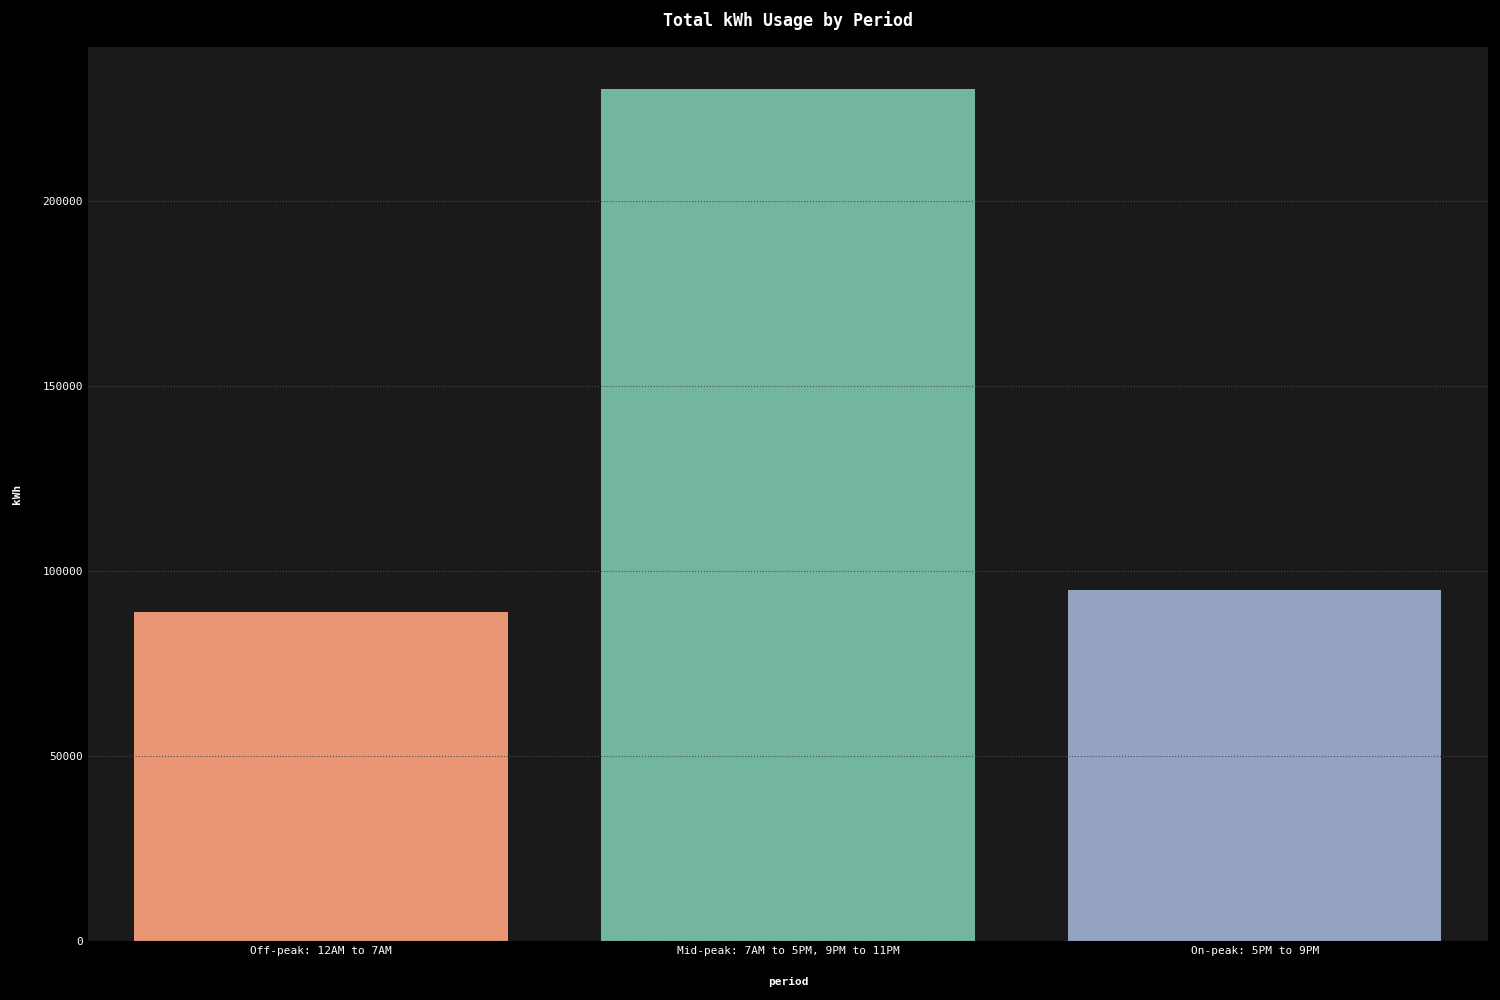
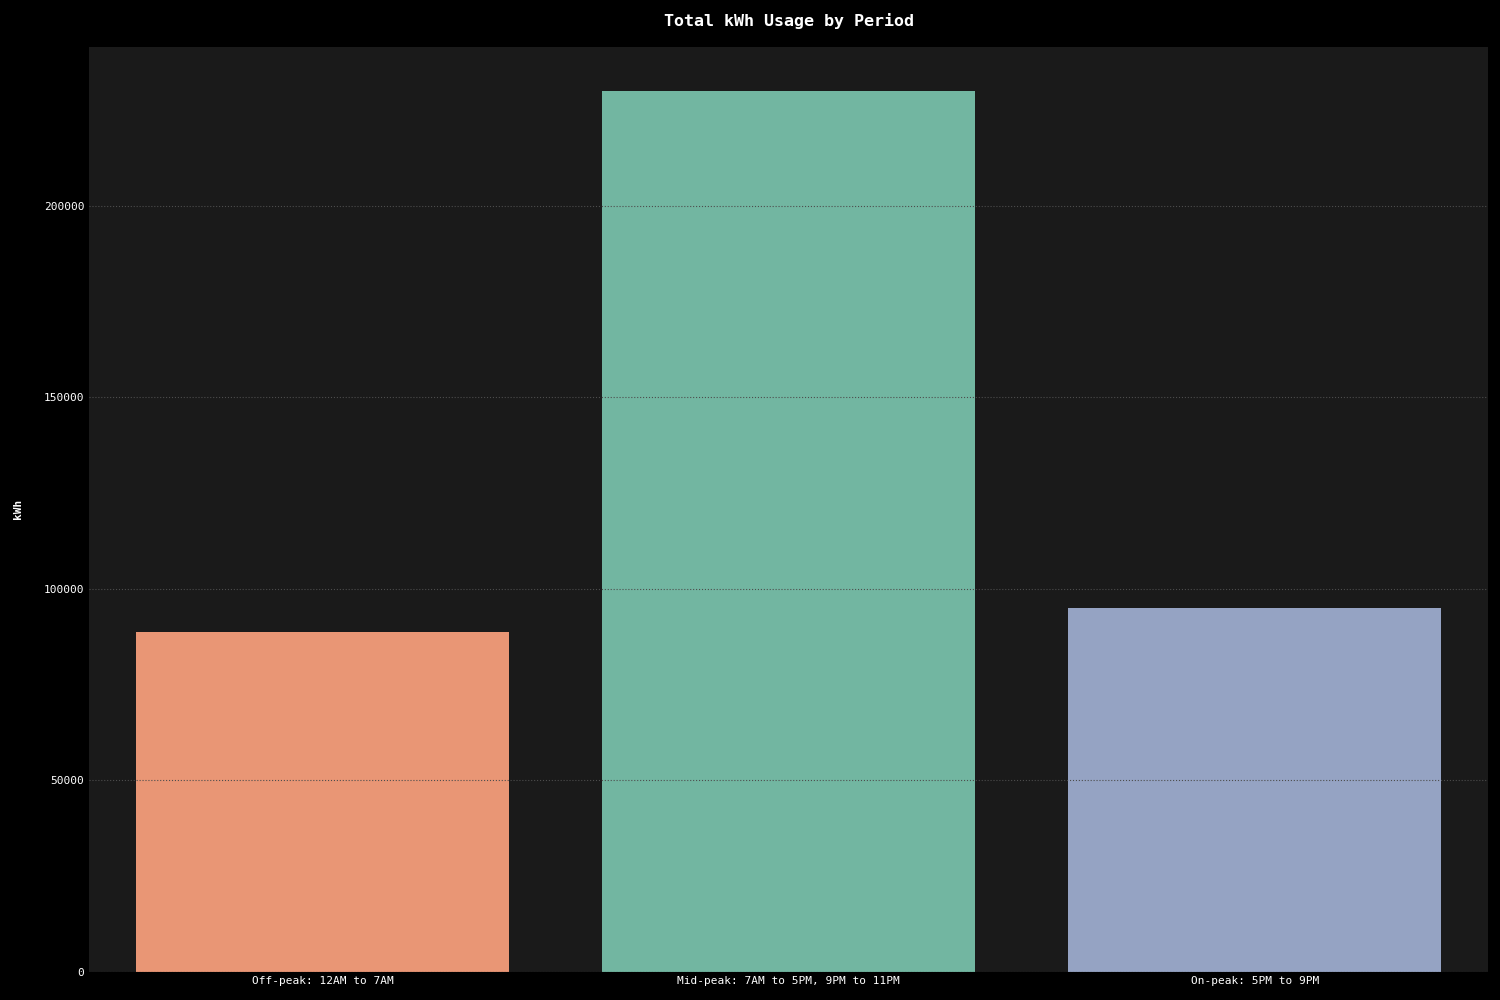
All `eda2` plots done and added to Make

diff --git a/src/eda/eda_features.py b/src/eda/eda_features.py
@@ -22,6 +22,10 @@ def feature_engineering(df : pd.DataFrame) -> pd.DataFrame:
 
         4. Period Classification:
             - A new string column 'period' classifies the time of the day into three categories: Off-peak, Mid-peak, and On-peak.
+
+        5. Location Mapping:
+            - A new string column 'location' maps 'account_number' to a physical location.
+            - This will be used for spatial analysis and plotting.
     
     Parameters:
         df (pd.DataFrame): The original DataFrame containing meter usage data.
@@ -52,6 +56,15 @@ def feature_engineering(df : pd.DataFrame) -> pd.DataFrame:
             'Off-peak: 12AM to 7AM' if 0 <= hour < 7 else (
             'Mid-peak: 7AM to 5PM, 9PM to 11PM' if (7 <= hour < 17) or (21 <= hour < 23) else 
             'On-peak: 5PM to 9PM'))
+    
+    # Map each account_number to a location name
+    df['location'] = df['account_number'].map({'35012787756' : "Industrial Way",
+                                               '30010320361' : "Fox Street",
+                                               '30010894035' : "Fox Street",
+                                               '30010601281' : "Fox Street",
+                                               '35012787137' : "Industrial Way",
+                                               '30010320353' : "Fox Street",
+                                               '35012790198' : "Industrial Way"})
     
     return df
 

diff --git a/src/eda/eda_2_avg_kwh_by_period.py b/src/eda/eda_2_avg_kwh_by_period.py
@@ -1,0 +1,37 @@
+from eda_features import meter_usage_engineered as mue
+from utils import set_plot_params
+
+import pandas as pd
+import matplotlib.pyplot as plt
+import seaborn as sns
+
+colors = set_plot_params()
+
+# Calculate total kWh usage for each period
+period_kwh = mue.groupby('period')['kwh'].sum()
+
+# Define the number of hours in each period
+hours_in_period = {'Off-peak: 12AM to 7AM'             : 7,
+                   'Mid-peak: 7AM to 5PM, 9PM to 11PM' : 13,  
+                   'On-peak: 5PM to 9PM'               : 4}
+
+# Calculate the average hourly usage for each period
+average_hourly_usage = period_kwh / pd.Series(hours_in_period)
+
+# Define the order in which the periods should appear
+period_order = ['Off-peak: 12AM to 7AM', 'Mid-peak: 7AM to 5PM, 9PM to 11PM', 'On-peak: 5PM to 9PM']
+
+# Create the plot
+sns.barplot(data    = pd.DataFrame({'period'      : average_hourly_usage.index,
+                                    'average_kwh' : average_hourly_usage.values}),
+            x       = 'period',
+            y       = 'average_kwh',
+            hue     = 'period',
+            order   = period_order)
+
+plt.title('Average kWh Usage per Hour by Period')
+plt.ylabel('Average kWh per Hour')
+plt.xlabel(None)
+plt.tight_layout()
+plt.savefig("fig/eda/avg_kwh_by_period.png")
+plt.show()

diff --git a/src/eda/eda_2_kwh_over_time_by_meter.py b/src/eda/eda_2_kwh_over_time_by_meter.py
@@ -1,0 +1,31 @@
+from eda_features import meter_usage_engineered as mue
+from utils import set_plot_params
+
+import matplotlib.pyplot as plt
+import numpy as np
+
+colors = set_plot_params()
+
+# Map each meter_id to a unique color
+unique_meters = mue['meter_id'].unique()
+color_map = dict(zip(unique_meters, reversed(colors)))
+
+# Scatter plot for each meter_id
+for meter, color in color_map.items():
+    subset = mue[mue['meter_id'] == meter]
+    plt.scatter(subset['interval_end_datetime'], 
+                subset['kwh'], 
+                color = color, 
+                label = meter, 
+                alpha = 0.5, 
+                s     = 10)
+
+# Plot settings
+plt.title('Scatter Plot of kWh Usage Over Time Colored by Meter ID')
+plt.ylabel('kWh')
+plt.xlabel('Datetime')
+plt.legend(title = 'Meter ID')
+
+plt.tight_layout()
+plt.savefig("fig/eda/kwh_over_time_by_meter.png")
+plt.show()

diff --git a/src/eda/eda_2_kwh_by_location.py b/src/eda/eda_2_kwh_by_location.py
@@ -1,0 +1,27 @@
+from eda_features import meter_usage_engineered as mue
+from utils import set_plot_params
+
+import matplotlib.pyplot as plt
+
+colors = set_plot_params()
+
+# Define colors for each unique location
+location_colors = {'Industrial Way': colors[0], 'Fox Street': colors[1]}
+
+for location, color in location_colors.items():
+    subset = mue[mue['location'] == location]
+    plt.scatter(subset['interval_end_datetime'], 
+                subset['kwh'], 
+                color = color, 
+                label = location, 
+                alpha = 0.3, 
+                s     = 10)
+
+plt.title('Scatter Plot of kWh Usage Over Time Colored by Location')
+plt.ylabel('kWh')
+plt.xlabel('Datetime')
+plt.legend(title = 'Location')
+
+plt.tight_layout()
+plt.savefig("fig/eda/kwh_by_location.png")
+plt.show()

diff --git a/src/eda/eda_2_kwh_by_period.py b/src/eda/eda_2_kwh_by_period.py
@@ -21,6 +21,7 @@ sns.barplot(data  = period_kwh,
 
 plt.title('Total kWh Usage by Period')
 plt.ylabel('kWh')
+plt.xlabel(None)
 plt.tight_layout()
 plt.savefig("fig/eda/kwh_by_period.png")
 plt.show()

diff --git a/eda.md b/eda.md
@@ -9,15 +9,18 @@
   - [Setting Up the Environment](#setting-up-the-environment)
 - [General Information](#general-information)
 - [Feature Engineering](#feature-engineering)
-  - [Fields Added or Altered](#fields-added-or-altered)
+- [High-Level Meter Analyses](#high-level-meter-analyses)
   - [Distribution of kWh by Meter ID \& Year](#distribution-of-kwh-by-meter-id--year)
+  - [kWh Usage Over Time by Meter ID](#kwh-usage-over-time-by-meter-id)
+  - [kWh Usage at Each Location](#kwh-usage-at-each-location)
   - [Key Takeaways](#key-takeaways)
 - [Usage by Period](#usage-by-period)
+  - [Key Takeaways](#key-takeaways-1)
 - [Mean and Max Usage Analysis](#mean-and-max-usage-analysis)
   - [Plot Aggregations](#plot-aggregations)
-  - [Key Takeaways](#key-takeaways-1)
-- [Energy Spikes](#energy-spikes)
   - [Key Takeaways](#key-takeaways-2)
+- [Energy Spikes](#energy-spikes)
+  - [Key Takeaways](#key-takeaways-3)
 
 ## Introduction
 
@@ -39,6 +42,7 @@ Charts can then be created and reviewed using one of the following commands:
 
 ```bash
 make eda1
+make eda2
 ```
 
 Note that each plot is then saved as a PNG file in the `.fig` directory after being closed by the user. 
@@ -81,8 +85,6 @@ Using `.head()` on `meter_usage` yields the following results:
 
 This section discusses the reformatting of existing columns and the generation of new ones to enable more in-depth analysis. 
 
-### Fields Added or Altered
-
   - `interval_date_time` (**datetime**): Converted to datetime datatype to facilitate time-based analysis. Enables granular, time-based comparisons and trend observations.
   
   - `year` (**int**): Year extracted from `interval_date_time` and added as a separate column. Useful for annual comparative analysis and identifying yearly trends.
@@ -94,35 +96,59 @@ This section discusses the reformatting of existing columns and the generation o
   - `hour` (**int**): Hour extracted from `interval_date_time`. Useful for hourly trend analysis and period classification.
 
   - `period` (**str**): Classifies the time of the day into three categories: 'Off-peak: 12AM to 7AM', 'Mid-peak: 7AM to 5PM, 9PM to 11PM', and 'On-peak: 5PM to 9PM'. This classification aids in understanding the energy usage patterns based on different time periods.
+
+  - `location` (**str**): Maps the `account_number` to a physical location name. This new column aids in spatial analysis and allows for color-coding plots by location for better interpretability.
   
   - `kwh_normalized` (**float**): Normalized energy usage, calculated as $\frac{{\text{kWh} - \mu}}{{\sigma}}$ where $\mu$ is the mean and $\sigma$ is the standard deviation, both computed grouped by `meter_id`. This normalization levels the playing field for analysis, allowing for a fair comparison across different meters and times.
   
   - `extreme_outlier` (**bool**): Boolean flag indicating if `kwh_normalized` is greater than 3 or less than -3. Serves as an immediate and accessible flag for unusual or extreme energy usage patterns.
 
+## High-Level Meter Analyses
+
+This section examines the energy consumption patterns over time, focusing on the different meter IDs. It incorporates two types of visualizations: boxplots that aggregate data by years and scatter plots that offer granular looks at the kWh usage over the entire observed timeframe.
+
 ### Distribution of kWh by Meter ID & Year
 
-This section presents a series of boxplots, each representing the distribution of normalized kilowatt-hour (kWh) usage by meter ID for different years. The plot aims to provide insights into the variability, central tendency, and outliers in the energy consumption recorded by each meter ID annually.
+This plot presents a series of boxplots, each representing the distribution of normalized kilowatt-hour (kWh) usage by meter ID for different years. It aims to provide insights into the variability, central tendency, and outliers in the energy consumption recorded by each meter ID annually.
 
 ![Distribution of kWh by Meter ID & Year](fig/eda/distribution_of_kwh.png)
 
+### kWh Usage Over Time by Meter ID
+
+Rather than group by year, this scatter plot illustrates the kilowatt-hour (kWh) usage over time, with each meter ID represented by a unique color. The plot aims to highlight trends, outliers, and patterns in energy consumption for each meter ID throughout the observed time frame.
+
+![kWh Usage Over Time Colored by Meter ID](fig/eda/kwh_over_time_by_meter.png)
+
+### kWh Usage at Each Location
+
+After analyzing the kWh usage over time by Meter ID, the next logical step is to examine how this usage is distributed across the brewery's 2 locations. This new dimension offers insights into whether specific locations are more energy-efficient or if they encounter different challenges in terms of energy management.
+
+![kWh Usage at Each Location](fig/eda/kwh_by_location.png)
+
 ### Key Takeaways
 
-1. **Ubiquitous Energy Spikes Across Locations**: The energy consumption spikes are not isolated incidents but occur across all meters and both brewery locations. This uniformity suggests that if there are opportunities for using energy more efficiently, those strategies would likely be applicable company-wide, including potentially rescheduling equipment to operate during off-peak hours.
+1. **Location-Specific Energy Spikes**: While energy consumption spikes occur across all meters and both brewery locations, the data shows a higher mean and max kWh usage at Fox Street compared to Industrial Way. The mean kWh at Fox Street is 0.912 and 0.642 at Industrial Way, indicating a more significant energy demand at Fox Street. This differential suggests that if there are opportunities for using energy more efficiently, those strategies may need to be tailored to each location rather than being uniformly applied across the company.
 
-2. **Direct and Long-Term Cost Implications**: These spikes in energy usage are not merely statistical outliers; they have immediate and long-term financial ramifications. Not only do they increase the direct cost of energy, but they also risk pushing the brewery into a higher tariff bracket, which could inflate energy costs over a more extended period.
+2. **Direct and Long-Term Cost Implications**: The spikes in energy usage at Fox Street, with a max kWh usage of 19.944, are notably higher than at Industrial Way, with a max kWh usage of 11.061. These spikes are not merely statistical outliers; they have immediate and long-term financial ramifications, including the risk of pushing the brewery into a higher tariff bracket. This is particularly concerning for Fox Street, where the energy demand is significantly higher, inflating energy costs over an extended period.
 
-3. **Systemic Nature of Spikes**: The uniform distribution of spikes across meters and years implies that this is not a localized issue but a systemic one. A more in-depth analysis of how the energy grid and machinery interact could provide insights into better space and grid utilization. Adapting operations to these insights could offer a protective buffer against unexpected, costly spikes in energy demand.
+3. **Differential Systemic Nature of Spikes**: Spikes in energy usage are indeed a systemic issue affecting all meters and years. However, the differential mean and max kWh between Fox Street and Industrial Way indicate that the issue manifests differently at each location. This requires a more in-depth, location-specific analysis of how the energy grid and machinery interact to better utilize space and grid, thereby offering a protective buffer against unexpected, costly spikes in energy demand.
+
+4. **Customized Energy Efficiency Plans**: Given the different energy demands at each location, customized energy-saving measures could be more effective than a generalized strategy. For instance, Fox Street, with its higher energy demand, could benefit more from rescheduling equipment to operate during off-peak hours or investing in energy-efficient machinery. Such targeted strategies could offer more substantial cost savings and operational efficiencies for each location.
 
 ## Usage by Period
 
-![Total kWh Usage by Period](fig/eda/kwh_by_period.png)
+This section focuses on analyzing energy usage based on time-of-day categorization into three distinct periods: Off-peak, Mid-peak, and On-peak. The goal is to understand how energy consumption varies throughout the day and identify potential opportunities for optimizing energy costs in accessible buckets for the business.
 
-```
-                              period         kwh
-0  Mid-peak: 7AM to 5PM, 9PM to 11PM  230073.873
-1              Off-peak: 12AM to 7AM   88837.882
-2                On-peak: 5PM to 9PM   94895.389
-```
+![Total kWh Usage by Period](fig/eda/kwh_by_period.png)
+![Average kWh Usage per Hour by Period](fig/eda/avg_kwh_by_period.png)
+
+### Key Takeaways
+
+1. **High Mid-Peak Usage for Core Operations**: The Mid-peak period (7AM to 5PM, 9PM to 11PM) shows the highest energy consumption, which aligns with core operational hours for most breweries. This is typically when brewing processes—such as mashing, boiling, and fermentation control—are most active. The spike in usage during these hours may also coincide with administrative functions, quality checks, and perhaps even initial stages of packaging. While these processes are essential, the high energy consumption warrants an investigation into more energy-efficient machinery or operational adjustments to distribute energy usage more evenly throughout the day.
+
+2. **Off-Peak Opportunities for Non-Essential Processes**: The Off-peak period (12AM to 7AM) shows the lowest energy usage, which is expected as most breweries would have scaled down operations during these hours. However, certain non-time-sensitive processes, like long-term fermentation control or batch mixing, could potentially be moved to these hours. Shifting some of these activities to off-peak times could leverage lower energy rates, leading to substantial cost savings without compromising on productivity or quality.
+
+3. **On-Peak Caution for High-Cost Operations**: The On-peak period (5PM to 9PM) has energy usage that is almost as high as during Mid-peak hours, despite being a shorter time frame. This is concerning given that energy rates are often highest during this period. Breweries may be running end-of-day quality checks, clean-in-place (CIP) systems, or even late-shift brewing during these hours. Given the high cost of energy during this period, it would be prudent to review the necessity of these activities at these times and consider rescheduling or optimizing them to avoid increased rates that tend to correlate with peak usage for grids.
 
 ## Mean and Max Usage Analysis
 
